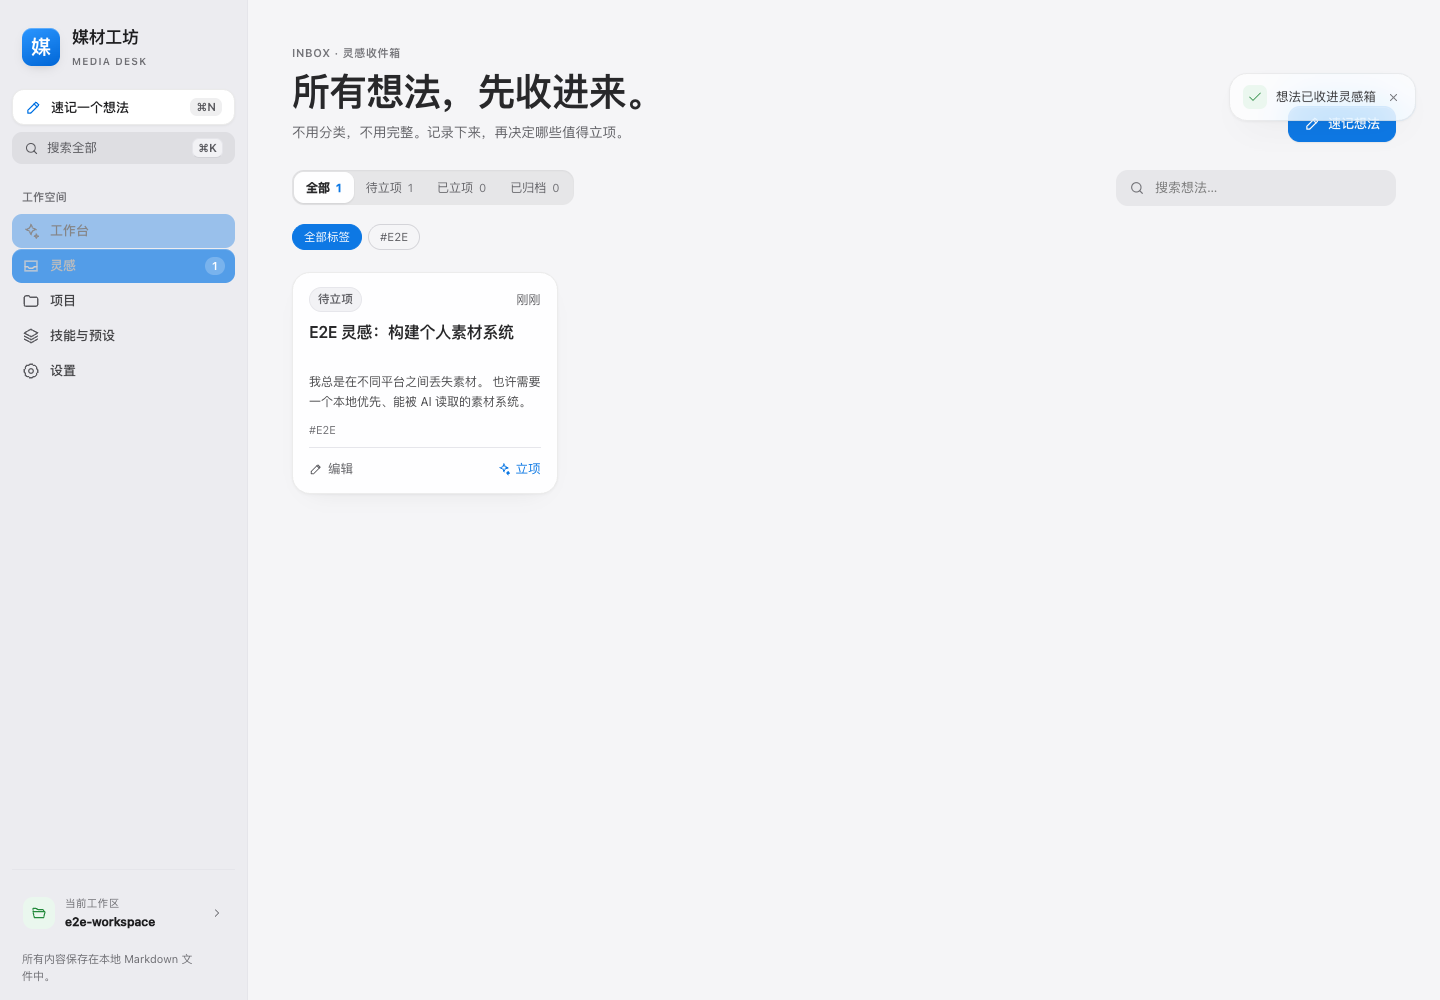
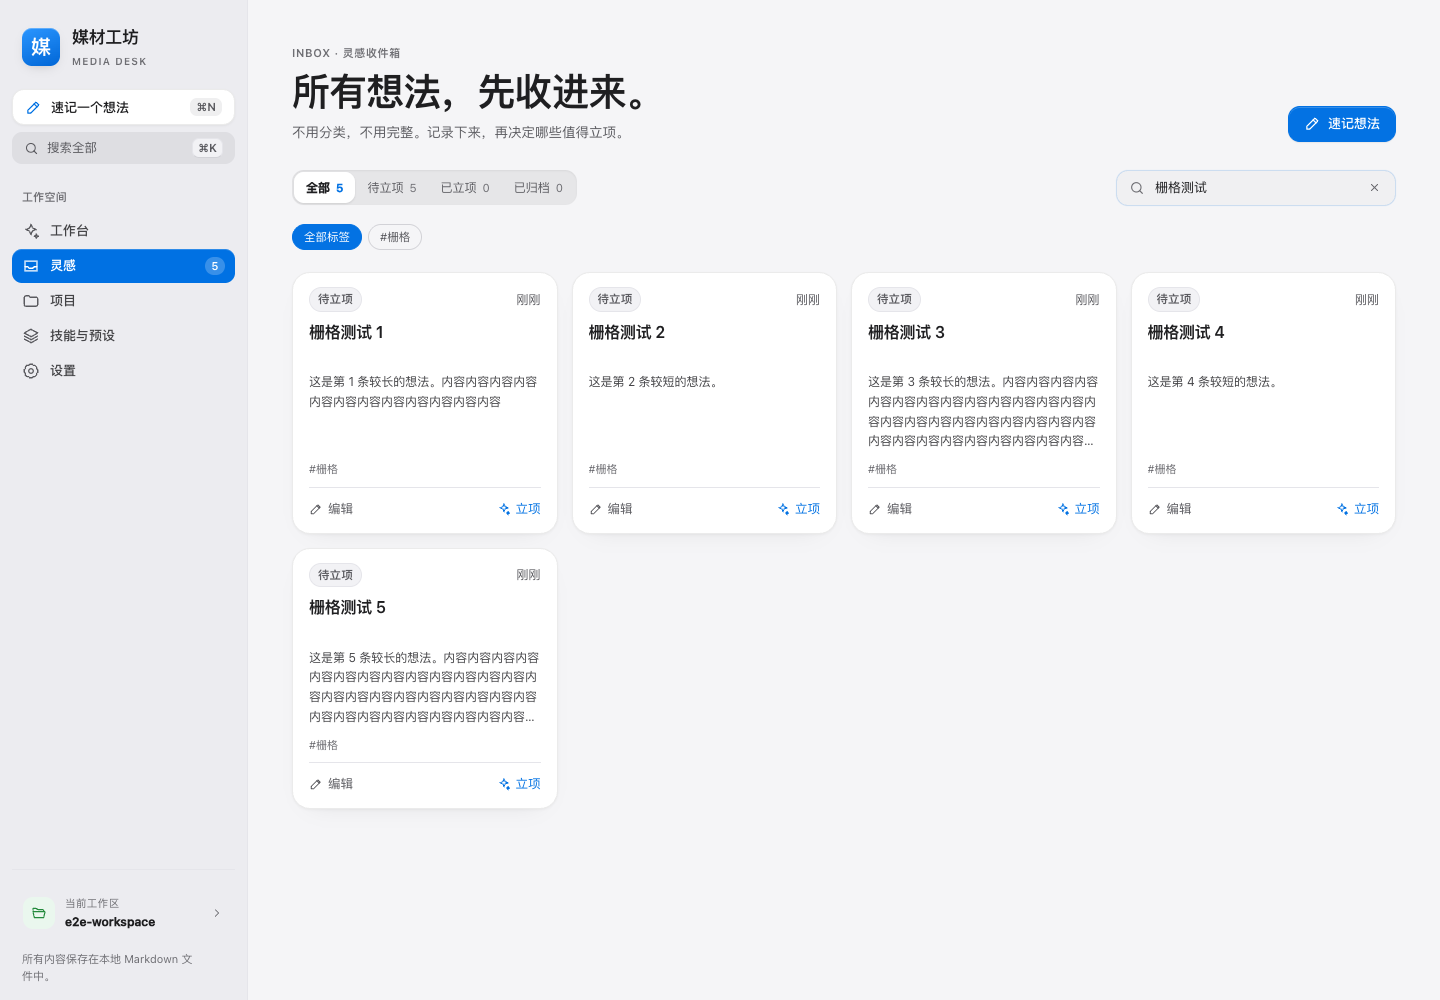
test: lock uniform ideas grid and tag blur behavior
- Add an E2E assertion that five different-length ideas share equal heights
- Add a regression test for tag input committing the DOM value on blur
- Update input test plan and acceptance counts
- Rebuild v0.10.2 release artifacts

diff --git a/tests/e2e/core.spec.ts b/tests/e2e/core.spec.ts
@@ -443,6 +443,59 @@ test('project editor inputs keep the caret while editing', async ({ page, reques
   await expect(body).toHaveValue('第一行内X容\n第二行内容');
 });
 
+test('ideas grid keeps equal card heights', async ({ page, request }) => {
+  for (let index = 1; index <= 5; index += 1) {
+    const created = await request.post('/api/ideas', {
+      data: {
+        title: `栅格测试 ${index}`,
+        content:
+          index % 2 === 0
+            ? `这是第 ${index} 条较短的想法。`
+            : `这是第 ${index} 条较长的想法。${'内容'.repeat(index * 12)}`,
+        tags: ['栅格'],
+      },
+    });
+    expect(created.ok()).toBeTruthy();
+  }
+
+  await page.goto('/ideas');
+  await page.getByPlaceholder('搜索想法…').fill('栅格测试');
+  await expect(page.locator('.idea-card')).toHaveCount(5);
+  const boxes = await page.locator('.idea-card').evaluateAll((elements) =>
+    elements.map((element) => {
+      const rect = element.getBoundingClientRect();
+      return { top: Math.round(rect.top), height: Math.round(rect.height) };
+    }),
+  );
+  expect(new Set(boxes.map((box) => box.height)).size).toBe(1);
+  expect(boxes[0].top).toBe(boxes[1].top);
+  await page.screenshot({ path: path.join(SHOTS, '21-ideas-grid.png') });
+});
+
+test('tag input commits the current DOM value on blur', async ({ page }) => {
+  await page.goto('/');
+  await page.locator('.sidebar .quick-capture-trigger').click();
+  const dialog = page.getByRole('dialog');
+  const tagInput = dialog.getByPlaceholder('输入标签后按回车');
+  await tagInput.evaluate((element, value) => {
+    const input = element as HTMLInputElement;
+    input.focus();
+    input.dispatchEvent(new CompositionEvent('compositionstart', { bubbles: true }));
+    const setter = Object.getOwnPropertyDescriptor(HTMLInputElement.prototype, 'value')?.set;
+    setter?.call(input, value);
+    input.dispatchEvent(
+      new InputEvent('input', {
+        bubbles: true,
+        isComposing: true,
+        inputType: 'insertCompositionText',
+        data: value,
+      }),
+    );
+  }, '失焦标签');
+  await dialog.getByPlaceholder('给这个想法一个名字').click();
+  await expect(dialog.locator('.tag').filter({ hasText: '失焦标签' })).toHaveCount(1);
+});
+
 test('switch workspace from settings and restore it', async ({ page, request }) => {
   const altWorkspace = path.join(ROOT, 'artifacts/e2e-alt-workspace');
   fs.rmSync(altWorkspace, { recursive: true, force: true });

diff --git a/src/styles.css b/src/styles.css
@@ -8675,6 +8675,7 @@ input[type="range"] {
 .ideas-masonry {
   display: grid;
   grid-template-columns: repeat(auto-fill, minmax(240px, 1fr));
+  grid-auto-rows: 252px;
   gap: 14px;
   align-items: stretch;
   columns: auto;
@@ -8714,6 +8715,7 @@ input[type="range"] {
 @media (max-width: 720px) {
   .ideas-masonry {
     grid-template-columns: 1fr;
+    grid-auto-rows: 238px;
   }
 }
 

diff --git a/docs/TESTING.md b/docs/TESTING.md
@@ -19,6 +19,7 @@
 - `IME composition is not interrupted by Enter or controlled input resets`
 - `project editor inputs keep the caret and survive a missing compositionend`
 - `project editor inputs keep the caret while editing`
+- `tag input commits the current DOM value on blur`
 
 覆盖：
 
@@ -31,7 +32,8 @@
 4. 项目素材编辑器标题在普通输入时保持中间光标（`abcd` → 光标移到 `ab|cd` → 输入 `X` 得到 `abXcd`）；
 5. 同样的“缺失 compositionend”场景发生在**项目素材编辑器标题**时，失焦后保存写回正确标题；
 6. 标签输入失焦使用输入框当前 DOM 值提交，不依赖旧 state；
-7. 标题和正文 textarea 在中间光标位置插入字符都不会跳到末尾。
+7. 标题和正文 textarea 在中间光标位置插入字符都不会跳到末尾；
+8. 标签输入只有 `compositionstart`、没有 `compositionend` 时直接失焦，仍按输入框当前 DOM 值提交标签。
 
 运行：
 

diff --git a/docs/SESSION-2026-11-22-cli-kernel-and-assistant.md b/docs/SESSION-2026-11-22-cli-kernel-and-assistant.md
@@ -48,7 +48,7 @@
 | ② 插图/视频媒体生成 | 完成 | 图像 OpenAI Images 兼容；视频 `openai` / `task` / `seedance` 协议；URL/base64 解析、轮询、落盘、sidecar、提示词快照 |
 | ③ 项目助手 | 完成 | 会话历史持久化、建议/覆盖模式、JSON 编辑协议、复用 `assets::update_asset`、项目页右侧会话栏 |
 
-验证命令：`npm run check`、`cargo clippy --workspace --all-targets --exclude mediadesk-desktop -- -D warnings`、`npm run e2e`。当前测试规模：Rust 15 unit + 20 integration，Vitest 19，Playwright 13。
+验证命令：`npm run check`、`cargo clippy --workspace --all-targets --exclude mediadesk-desktop -- -D warnings`、`npm run e2e`。当前测试规模：Rust 15 unit + 20 integration，Vitest 19，Playwright 15。
 
 ## 3. 本会话已完成的部分
 

diff --git a/README.md b/README.md
@@ -112,8 +112,8 @@ Windows 使用相同 Tauri 配置，在 Windows 上执行 `npx tauri build --bun
 
 | 文件 | 用途 | 大小 |
 |---|---|---|
-| `release/媒材工坊_0.10.1_aarch64.dmg` | 拖入 Applications 的安装包 | 3.69 MB |
-| `release/媒材工坊_0.10.1_aarch64.app.zip` | 免安装应用 | 3.24 MB |
+| `release/媒材工坊_0.10.2_aarch64.dmg` | 拖入 Applications 的安装包 | 3.69 MB |
+| `release/媒材工坊_0.10.2_aarch64.app.zip` | 免安装应用 | 3.24 MB |
 | `release/mediadesk-server-macos-arm64` | 浏览器版单二进制（内嵌 UI） | 3.53 MB |
 
 实测：浏览器服务空载 RSS ≈ 8.7MB，冷启动 0.1–0.6s；原生主进程空载约 35MB、打开工作台约 94MB（系统 WKWebView，进程另计）。完整数据见 [验收记录](docs/ACCEPTANCE.md)。
